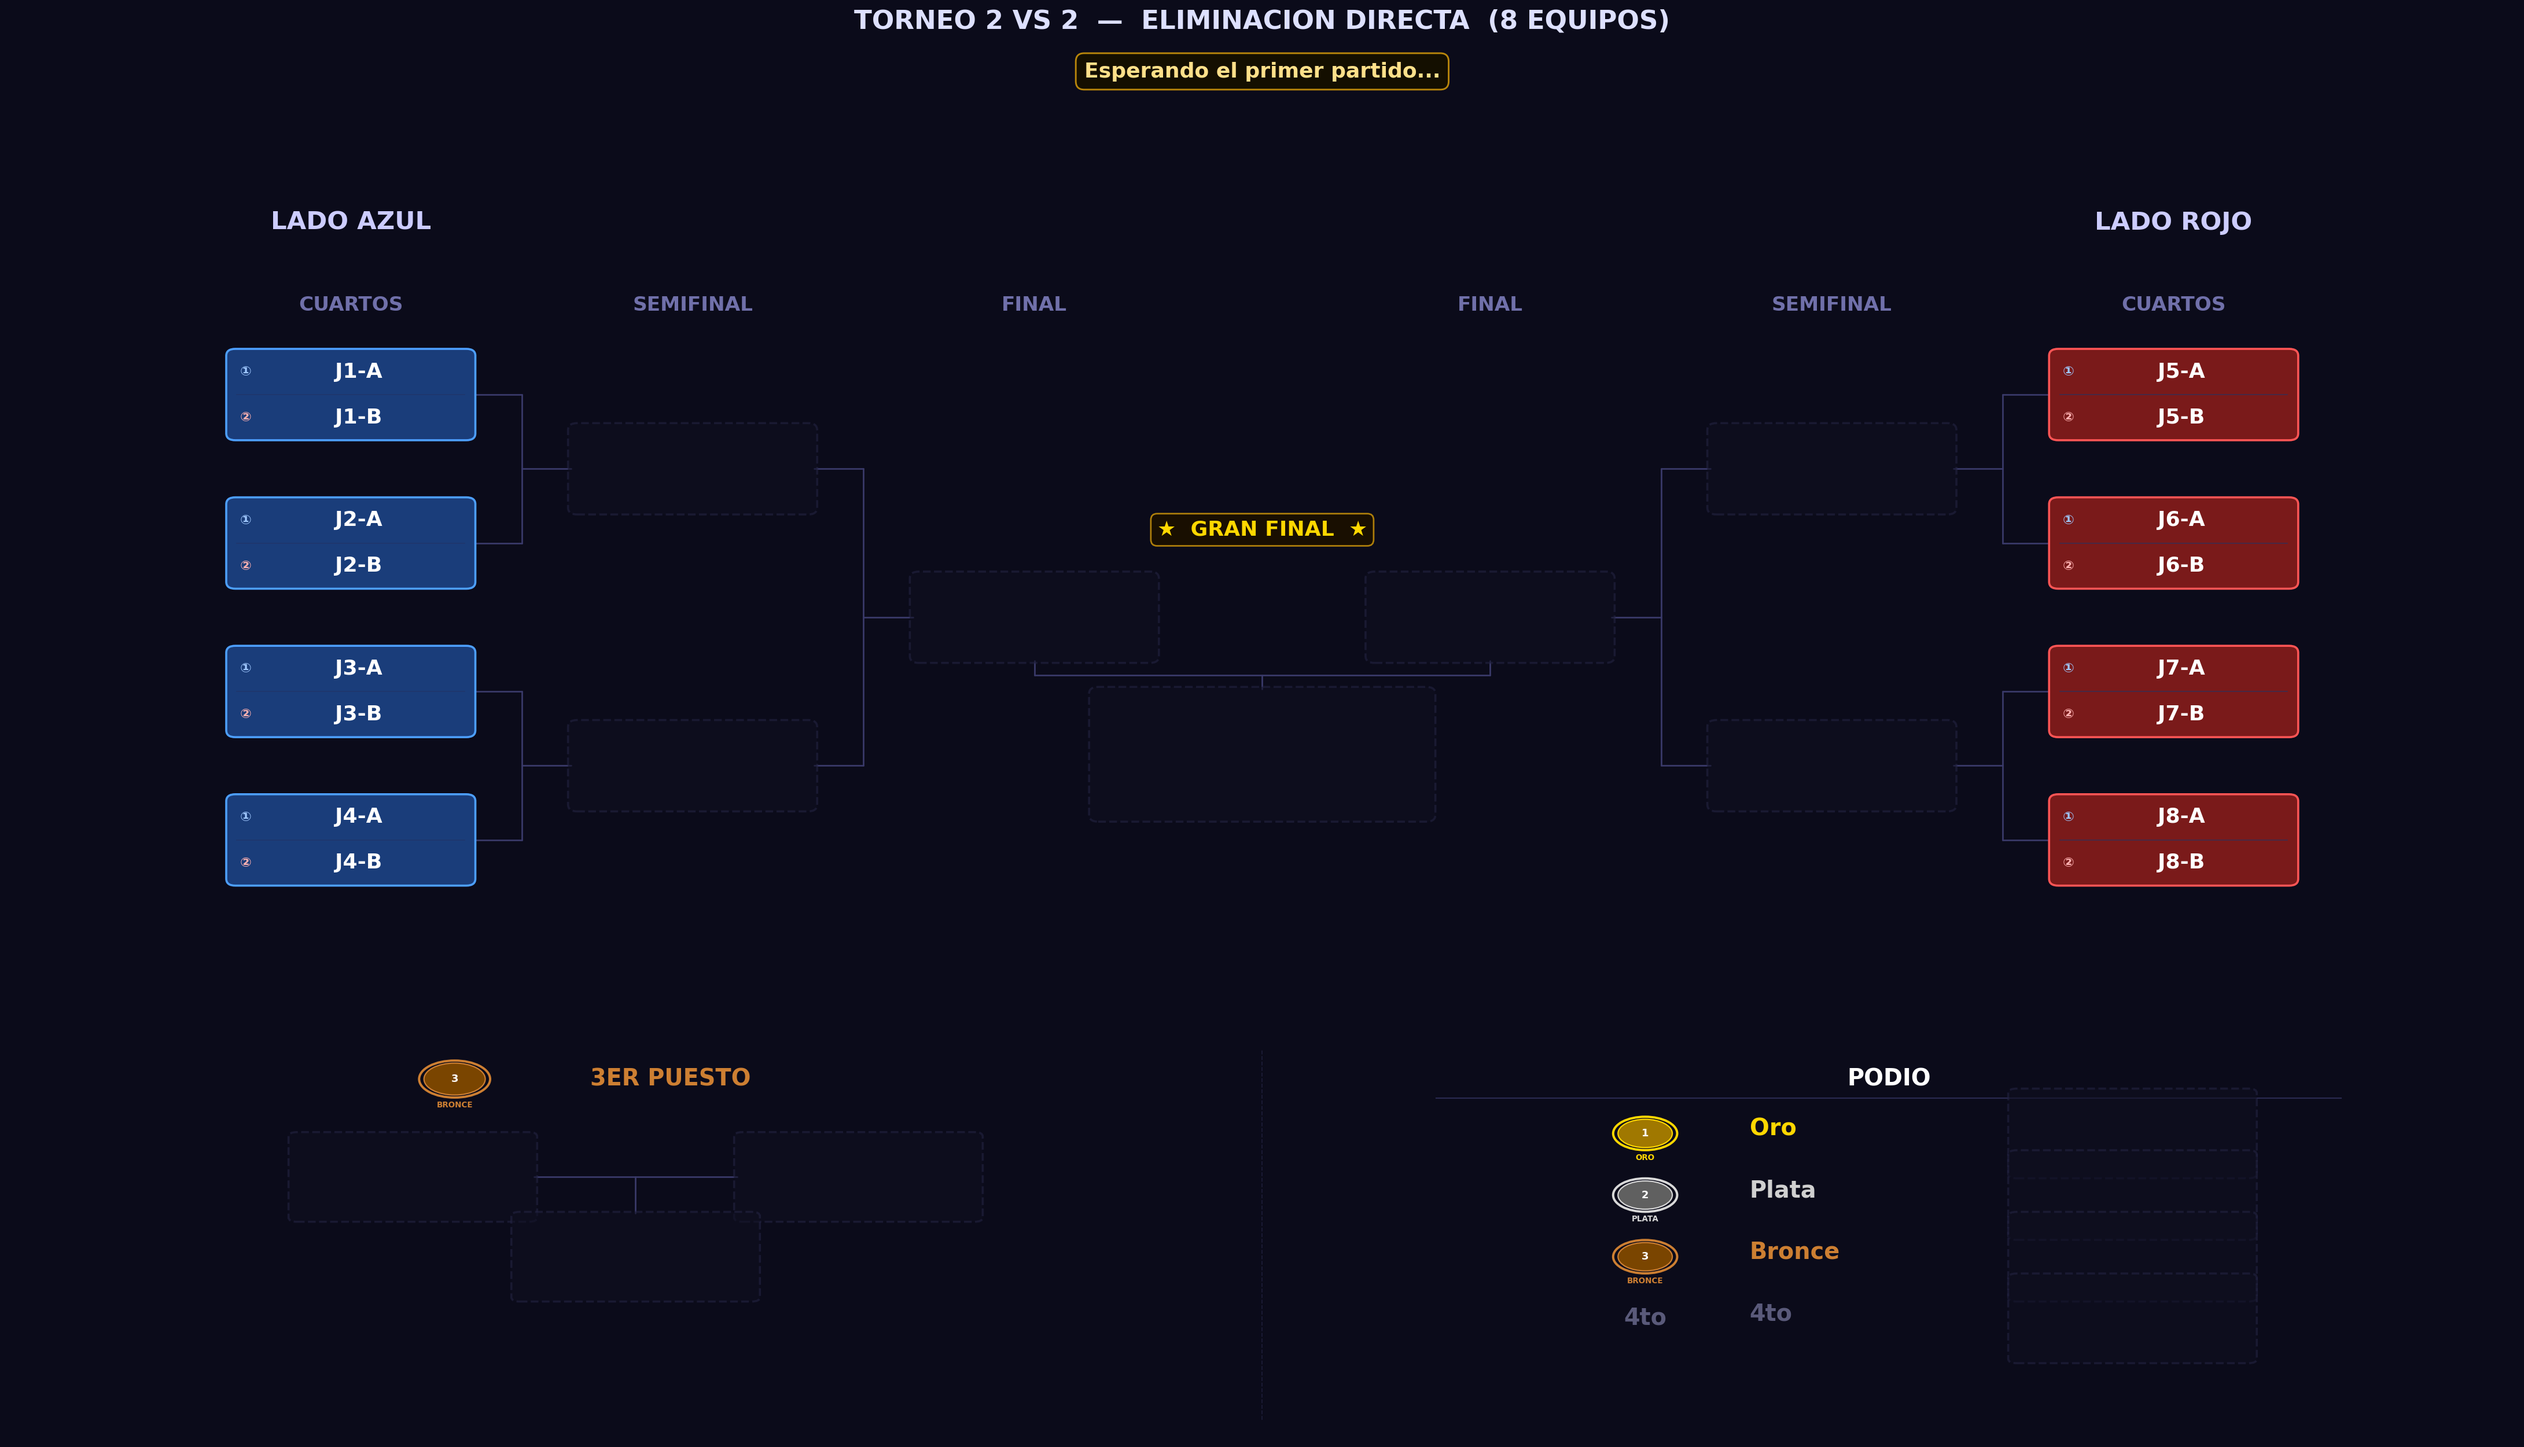
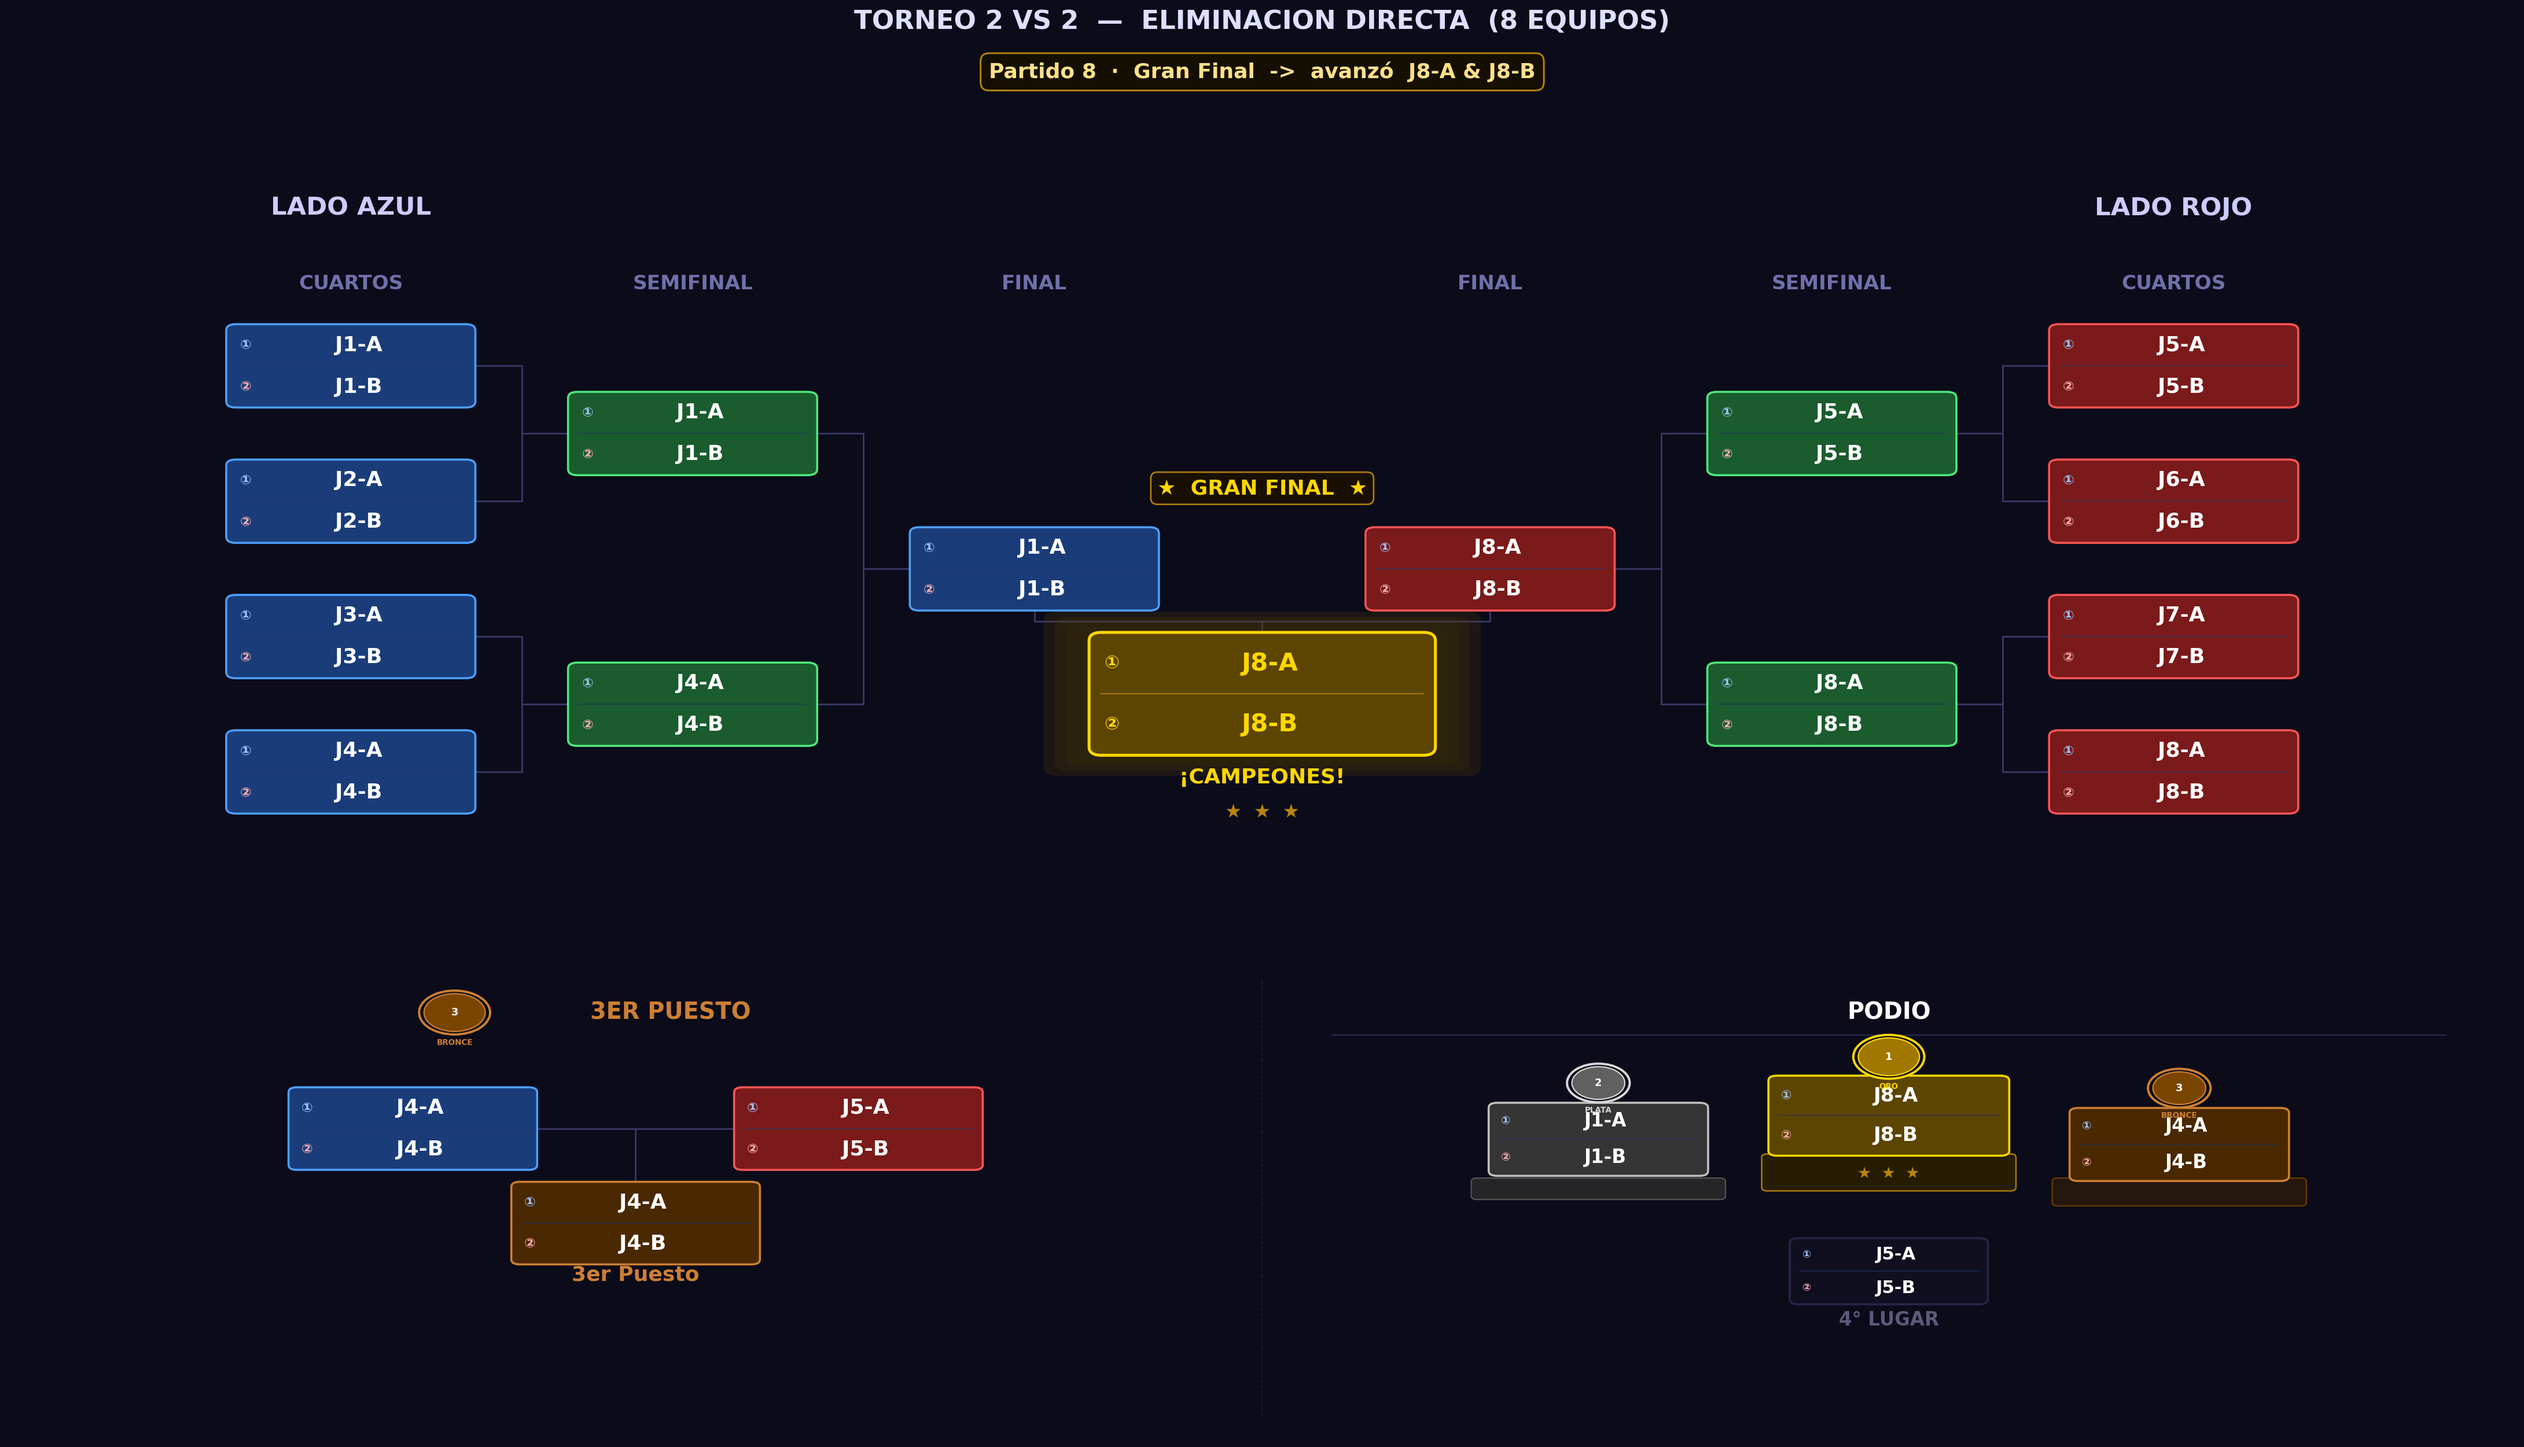
Fix: 15:33 06/06/2026

diff --git a/01_BeaNabi/Torneo_BeaNabi.py b/01_BeaNabi/Torneo_BeaNabi.py
@@ -419,7 +419,7 @@ def dibujar_panel_inferior(ax, st):
     _X_RANGE_BOT = (XLIM_BOT[1] - XLIM_BOT[0])   # 36
     _Y_RANGE_BOT = (YLIM_BOT[1] - YLIM_BOT[0])   # 12
     _RATIO_TOP   = 2.1
-    _RATIO_BOT   = 1.0
+    _RATIO_BOT   = 1.3
     BOT_W = BOX_W * (_X_RANGE_BOT / _X_RANGE_TOP)
     BOT_H = BOX_H * (_Y_RANGE_BOT / _Y_RANGE_TOP) * (_RATIO_TOP / _RATIO_BOT)
     BOT_H1 = BOT_H / 2 - 0.04   # alto de cada sub-fila escalada
@@ -458,38 +458,112 @@ def dibujar_panel_inferior(ax, st):
                 fontsize=FS - 2, fontweight="bold", color="#cd7f32")
 
     # =================================================================
-    #  SECCIÓN 2 — PODIO  (centro x = 27)
+    #  SECCIÓN 2 — PODIO  (lado derecho, xlim 18..36)
+    #  Disposición real de podio:
+    #    PLATA(izq)  ORO(centro-alto)  BRONCE(der)
+    #                   4TO (abajo)
     # =================================================================
-    XP  = 27.0
-    ROW = 1.70   # separación entre filas del podio (mayor por bloques dobles)
 
-    ax.text(XP, Y_HEAD, "PODIO", ha="center", va="center",
+    # Centro de la sección podio y parámetros de layout
+    SEC_CX   = 27.0          # centro horizontal de la sección (18..36)
+    SEC_TOP  = Y_HEAD        # Y del título
+
+    # Título PODIO
+    ax.text(SEC_CX, SEC_TOP, "PODIO", ha="center", va="center",
             fontsize=FS, fontweight="bold", color="#ffffff")
-    ax.plot([20.5, 33.5], [Y_HEAD - 0.52, Y_HEAD - 0.52],
+    ax.plot([19.0, 35.0], [SEC_TOP - 0.52, SEC_TOP - 0.52],
             color=C["sep"], lw=1.2, zorder=1)
 
-    podio = [
-        (1, "Oro",    st["wb"][3][0],   "champ",  "#ffd700"),
-        (2, "Plata",  _subcampeon(st),  "silver", "#d0d0d0"),
-        (3, "Bronce", st["tercero"],    "bronze", "#cd7f32"),
-        (4, "4to",    st["cuarto"],     "empty",  "#5a5a7a"),
-    ]
+    # Datos de cada posición
+    podio_data = {
+        1: (st["wb"][3][0],  "champ",  "#ffd700"),
+        2: (_subcampeon(st), "silver", "#d0d0d0"),
+        3: (st["tercero"],   "bronze", "#cd7f32"),
+        4: (st["cuarto"],    "empty",  "#5a5a7a"),
+    }
 
-    for pos, lbl, equipo, estilo, color_lbl in podio:
-        yp = 8.4 - (pos - 1) * ROW
+    # Escalado de caja para el podio — ligeramente más pequeño que BOT
+    PW   = BOT_W * 0.88
+    PH   = BOT_H * 0.88
+    PH1  = PH / 2 - 0.04
+    PFS  = FS - 2
 
-        if pos <= 3:
-            draw_medal(ax, XP - 3.5, yp, pos, r=0.39)
-        else:
-            ax.text(XP - 3.5, yp, "4to", ha="center", va="center",
-                    fontsize=FS, fontweight="bold", color=color_lbl, zorder=5)
+    # Separación horizontal entre columnas del podio (Plata | Oro | Bronce)
+    H_SEP  = PW + 1.1          # distancia entre centros horizontales
+    # Separación vertical entre fila superior e inferior del podio
+    V_SEP  = PH + 2.0
 
-        ax.text(XP - 2.0, yp + 0.12, lbl, ha="left", va="center",
-                fontsize=FS, fontweight="bold", color=color_lbl)
+    # Posiciones X de las tres columnas superiores
+    X_GOLD   = SEC_CX
+    X_SILVER = SEC_CX - H_SEP
+    X_BRONZE = SEC_CX + H_SEP
 
-        draw_box_duo(ax, XP + 3.5, yp, equipo,
-                     estilo if equipo else "empty",
-                     w=BOT_W, h=BOT_H, h1=BOT_H1, fontsize=FS, z=3)
+    # Escalones del podio: Oro más arriba, Plata intermedio, Bronce más bajo
+    Y_ROW_TOP = SEC_TOP - 2.4   # fila Oro
+    Y_ROW_MID = Y_ROW_TOP - 0.55  # fila Plata/Bronce (medio paso abajo)
+    Y_ROW_BOT = Y_ROW_TOP - V_SEP  # fila 4to lugar
+
+    # Radio de medalla escalado
+    MR = 0.38
+
+    # ── Plataformas del podio (rectángulos tipo escalón) ──────────────────
+    # Plata  (altura 1)
+    plat_w = PW + 0.5
+    ax.add_patch(FancyBboxPatch(
+        (X_SILVER - plat_w/2, Y_ROW_MID - PH/2 - 0.55),
+        plat_w, 0.42,
+        boxstyle="round,pad=0.04,rounding_size=0.08",
+        fc="#2a2a2a", ec="#606060", lw=1.2, alpha=0.85, zorder=2
+    ))
+    # Bronce (altura 1)
+    ax.add_patch(FancyBboxPatch(
+        (X_BRONZE - plat_w/2, Y_ROW_MID - PH/2 - 0.70),
+        plat_w, 0.57,
+        boxstyle="round,pad=0.04,rounding_size=0.08",
+        fc="#2a1a0a", ec="#7a4500", lw=1.2, alpha=0.85, zorder=2
+    ))
+    # Oro (plataforma más alta)
+    ax.add_patch(FancyBboxPatch(
+        (X_GOLD - plat_w/2, Y_ROW_TOP - PH/2 - 0.90),
+        plat_w, 0.78,
+        boxstyle="round,pad=0.04,rounding_size=0.08",
+        fc="#2b2000", ec="#b8860b", lw=1.4, alpha=0.90, zorder=2
+    ))
+
+    # ── ORO (centro, más alto) ────────────────────────────────────────────
+    eq1, st1, col1 = podio_data[1]
+    # Brillo de medalla grande para el oro
+    draw_medal(ax, X_GOLD, Y_ROW_TOP + PH/2 + MR + 0.18, 1, r=MR + 0.06)
+    draw_box_duo(ax, X_GOLD, Y_ROW_TOP, eq1,
+                 st1 if eq1 else "empty",
+                 w=PW * 1.10, h=PH * 1.10, h1=PH1 * 1.10, fontsize=PFS + 1, z=4)
+    # Estrellas decorativas
+    ax.text(X_GOLD, Y_ROW_TOP - PH*1.10/2 - 0.28, "★  ★  ★",
+            ha="center", va="top",
+            fontsize=PFS - 5, color="#b8860b", zorder=5)
+
+    # ── PLATA (izquierda, medio) ──────────────────────────────────────────
+    eq2, st2, col2 = podio_data[2]
+    draw_medal(ax, X_SILVER, Y_ROW_MID + PH/2 + MR + 0.12, 2, r=MR)
+    draw_box_duo(ax, X_SILVER, Y_ROW_MID, eq2,
+                 st2 if eq2 else "empty",
+                 w=PW, h=PH, h1=PH1, fontsize=PFS, z=3)
+
+    # ── BRONCE (derecha, más bajo) ────────────────────────────────────────
+    eq3, st3, col3 = podio_data[3]
+    draw_medal(ax, X_BRONZE, Y_ROW_MID - 0.12 + PH/2 + MR + 0.12, 3, r=MR)
+    draw_box_duo(ax, X_BRONZE, Y_ROW_MID - 0.12, eq3,
+                 st3 if eq3 else "empty",
+                 w=PW, h=PH, h1=PH1, fontsize=PFS, z=3)
+
+    # ── 4TO LUGAR (abajo, centrado) ───────────────────────────────────────
+    eq4, st4, col4 = podio_data[4]
+    draw_box_duo(ax, SEC_CX, Y_ROW_BOT, eq4,
+                 st4 if eq4 else "empty",
+                 w=PW * 0.90, h=PH * 0.90, h1=PH1 * 0.90, fontsize=PFS - 1, z=3)
+    ax.text(SEC_CX, Y_ROW_BOT - PH*0.90/2 - 0.18, "4\u00b0 LUGAR",
+            ha="center", va="top",
+            fontsize=PFS - 2, fontweight="bold", color=col4, zorder=5)
 
 
 # =====================================================================
@@ -500,7 +574,7 @@ def render(st, banner=None, ruta=None, dpi=130):
     fig = plt.figure(figsize=(34, 20), facecolor=C["bg"])
     gs  = fig.add_gridspec(
         2, 1,
-        height_ratios=[2.1, 1.0],
+        height_ratios=[2.1, 1.3],
         hspace=0.03,
         top=0.93, bottom=0.02,
         left=0.01, right=0.99,
